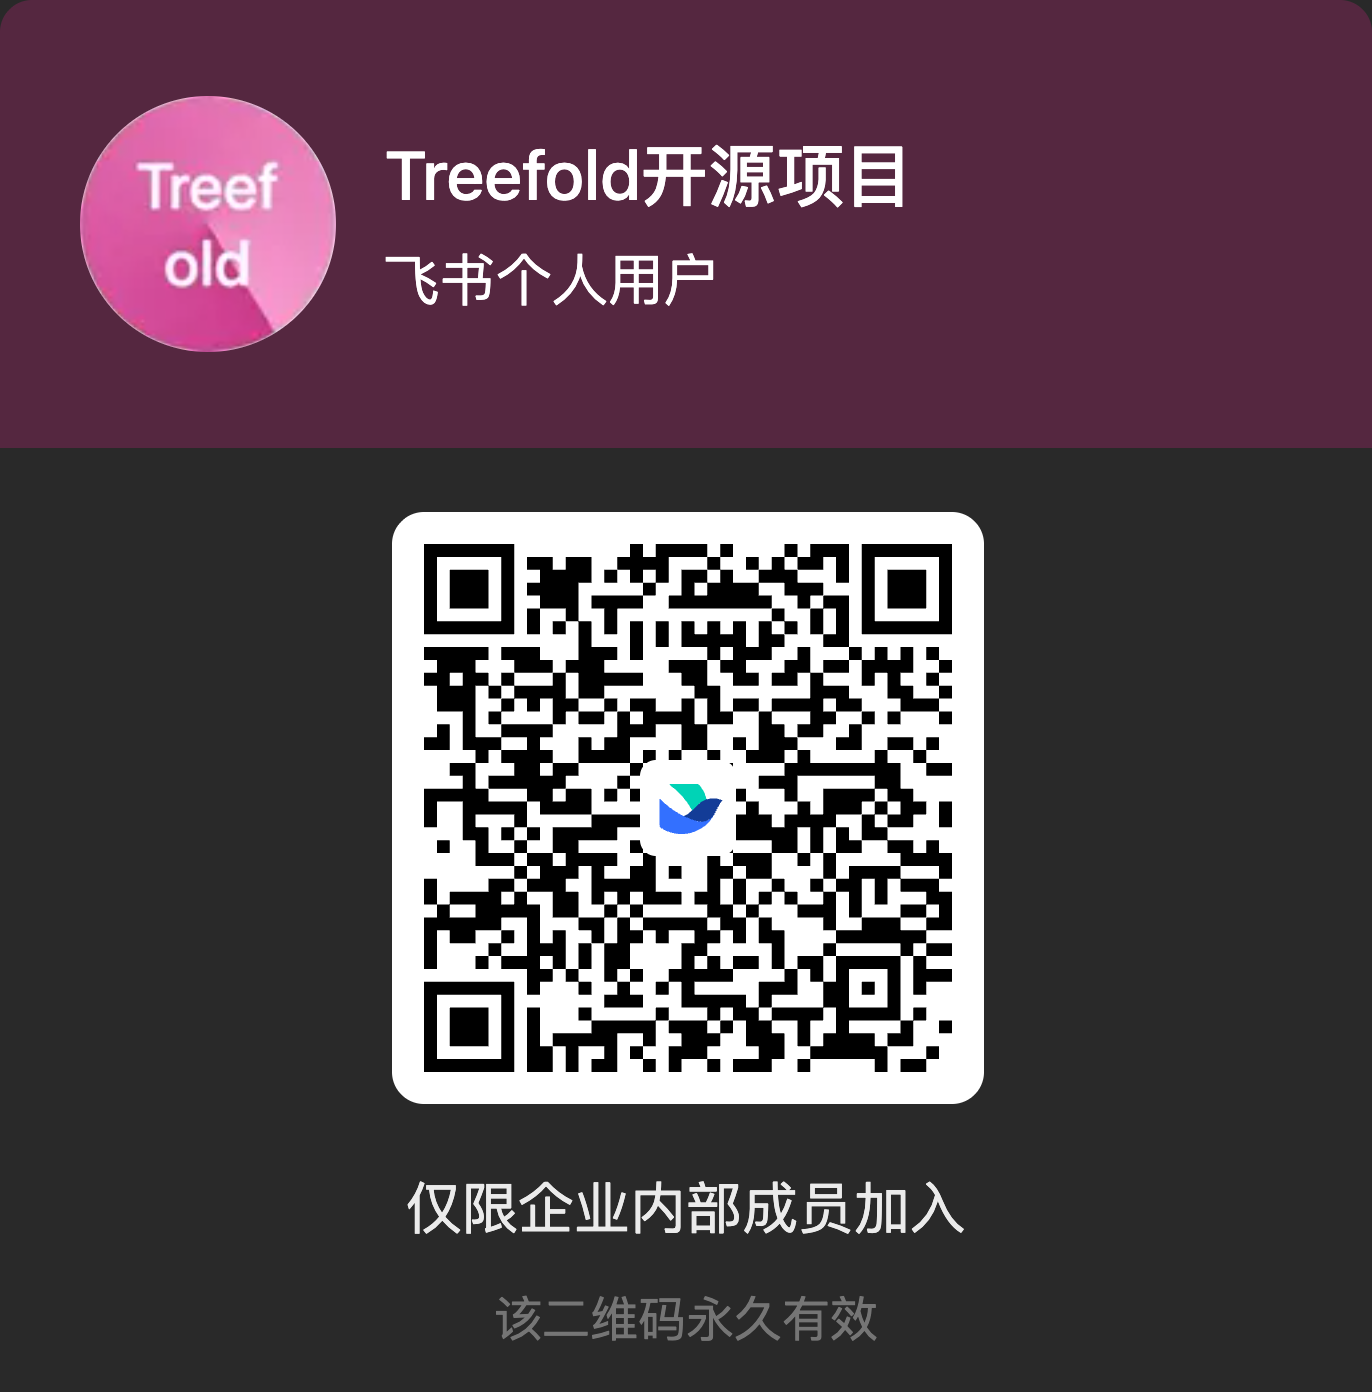
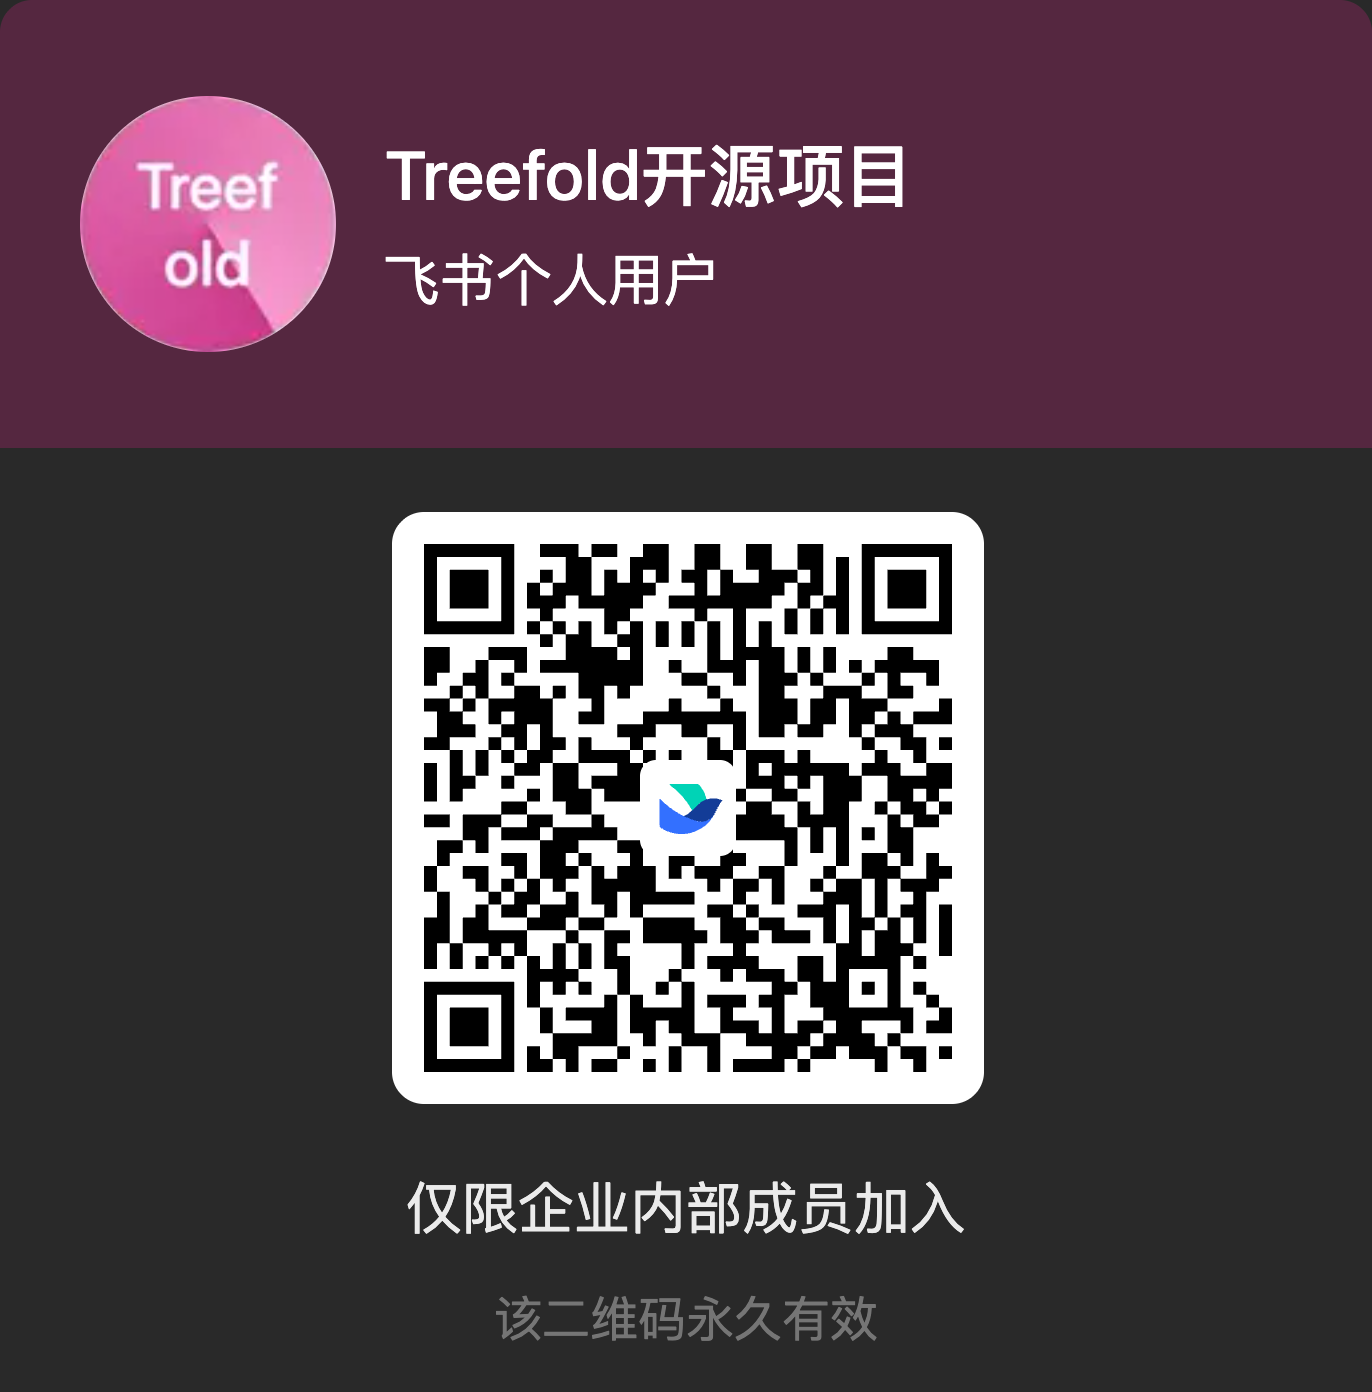
docs: update personal Feishu group QR code and join instructions

Changed region(s): [[0.3061, 0.3707, 0.7041, 0.7723]]

diff --git a/README.en.md b/README.en.md
@@ -153,7 +153,7 @@ Scan the QR code with Feishu to join the “Treefold开源项目” group and ch
 
 <img src="docs/images/feishu-community.png" alt="QR code for the Treefold Feishu community group" width="420" />
 
-The group currently only accepts members of the same organization. If you cannot join, you can also reach me through [GitHub Issues](https://github.com/win5do/treefold/issues).
+This is a Feishu personal-edition group. You can join with a personal Feishu account, or reach me through [GitHub Issues](https://github.com/win5do/treefold/issues).
 
 If Treefold helps you, consider [giving it a star on GitHub](https://github.com/win5do/treefold) to support the project.
 

diff --git a/README.md b/README.md
@@ -153,7 +153,7 @@ just app-dev
 
 <img src="docs/images/feishu-community.png" alt="Treefold开源项目飞书群二维码" width="420" />
 
-二维码当前仅允许企业内部成员加入；如果无法入群，也欢迎通过 [GitHub Issues](https://github.com/win5do/treefold/issues) 交流。
+这是飞书个人版交流群，使用飞书个人账号即可加入。也欢迎通过 [GitHub Issues](https://github.com/win5do/treefold/issues) 交流。
 
 如果 Treefold 对你有帮助，欢迎在 [GitHub 上点个 Star](https://github.com/win5do/treefold)，支持这个开源项目。
 
